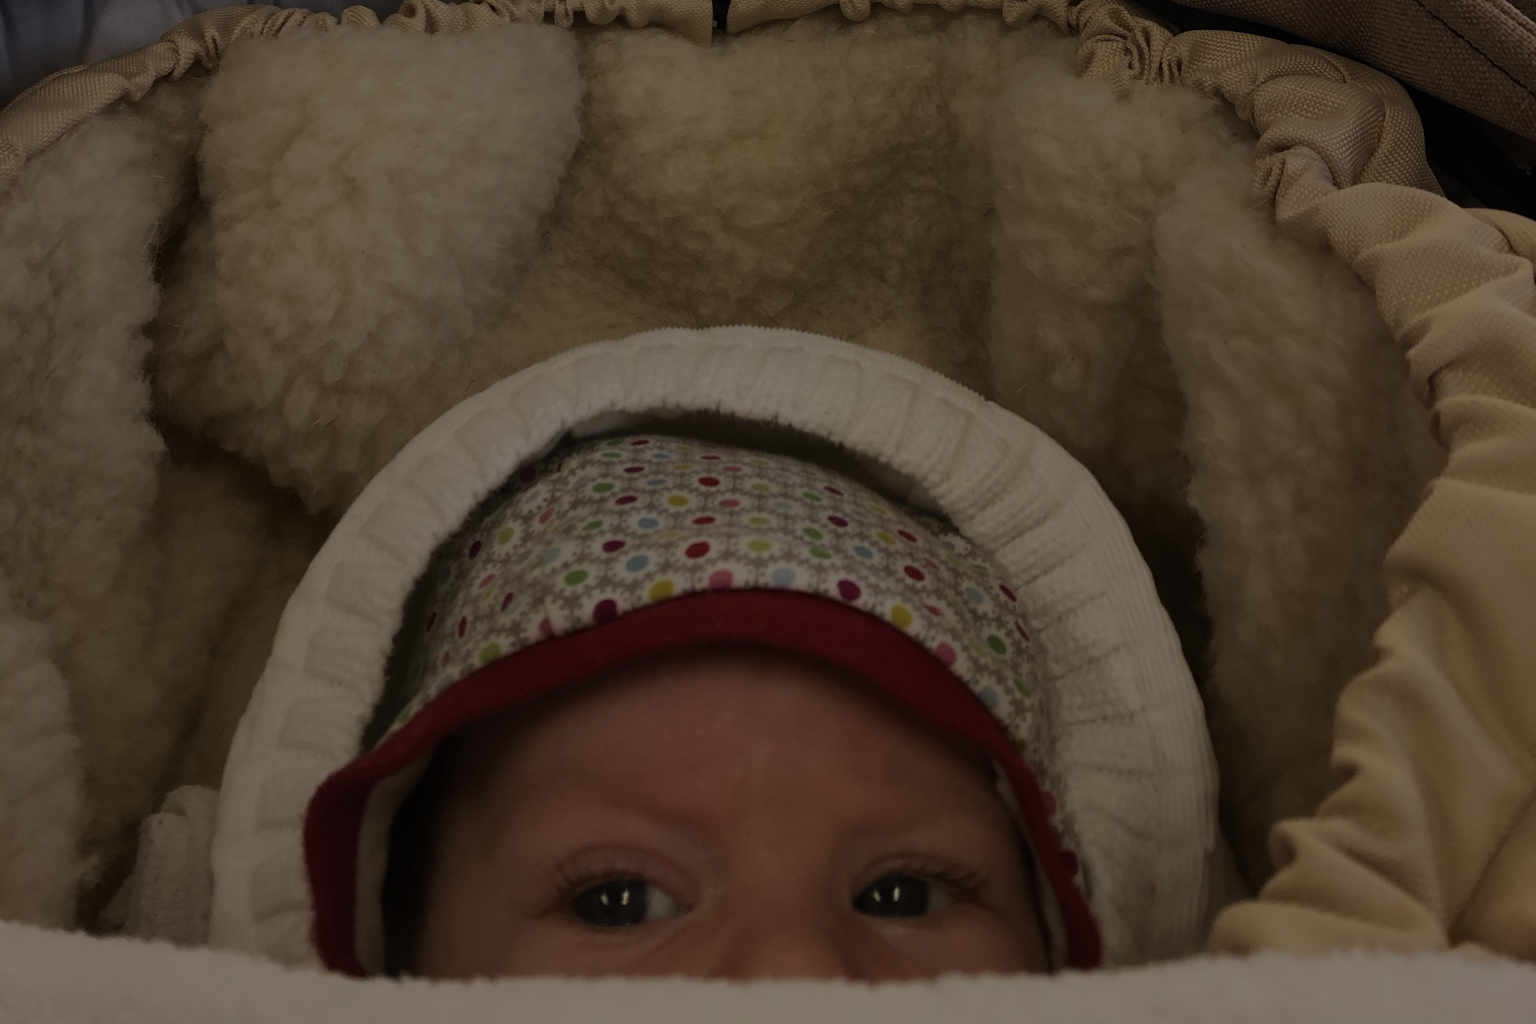
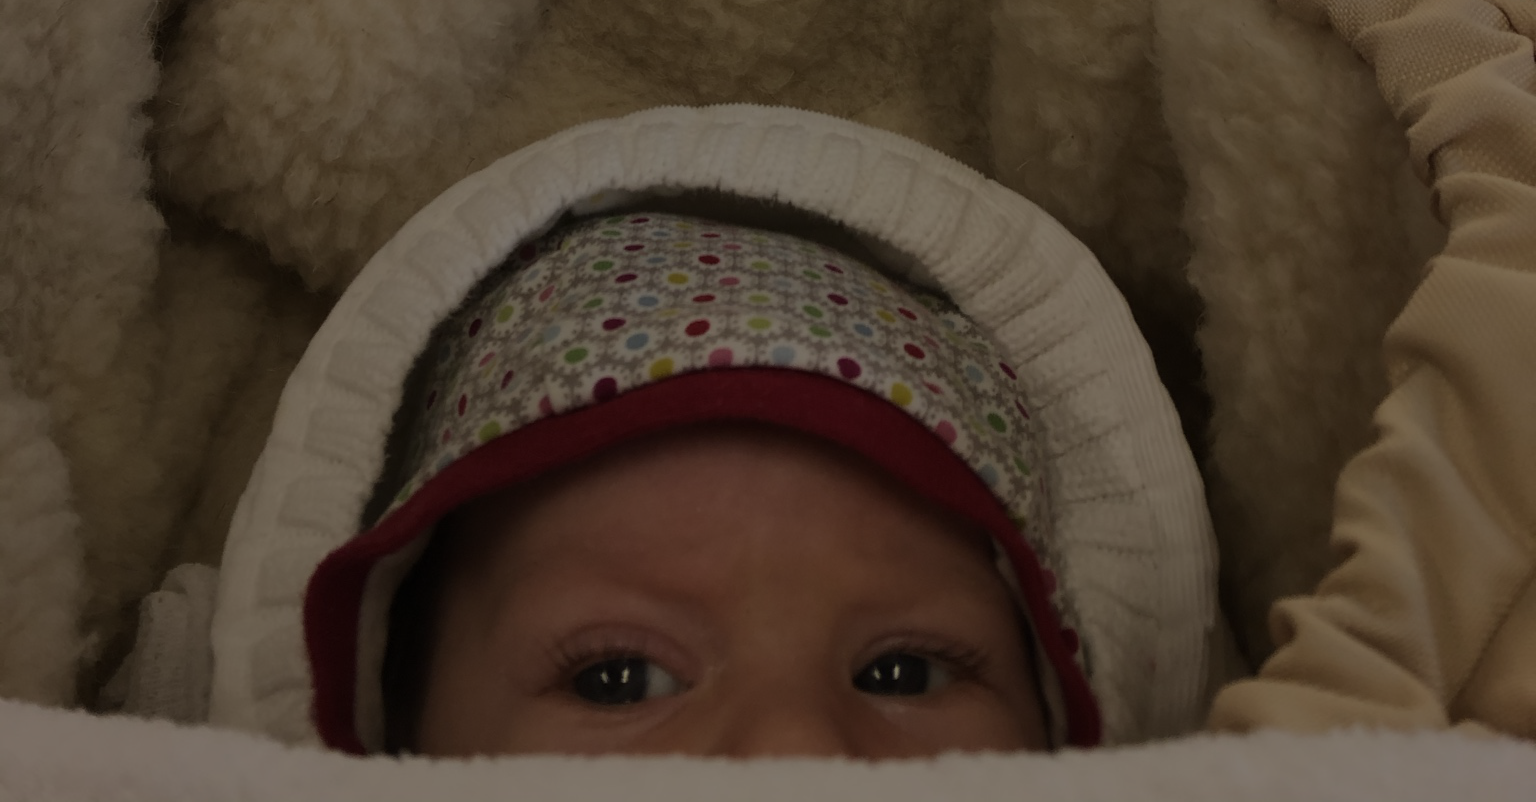
Header

diff --git a/_sass/_base.scss b/_sass/_base.scss
@@ -155,7 +155,7 @@ header {
     min-height: auto;
     @include background-cover;
     background-position: center;
-    background-image: url('../img/header1.jpg');
+    background-image: url('../img/header.jpg');
     text-align: center;
     color: white;
     .header-content {
